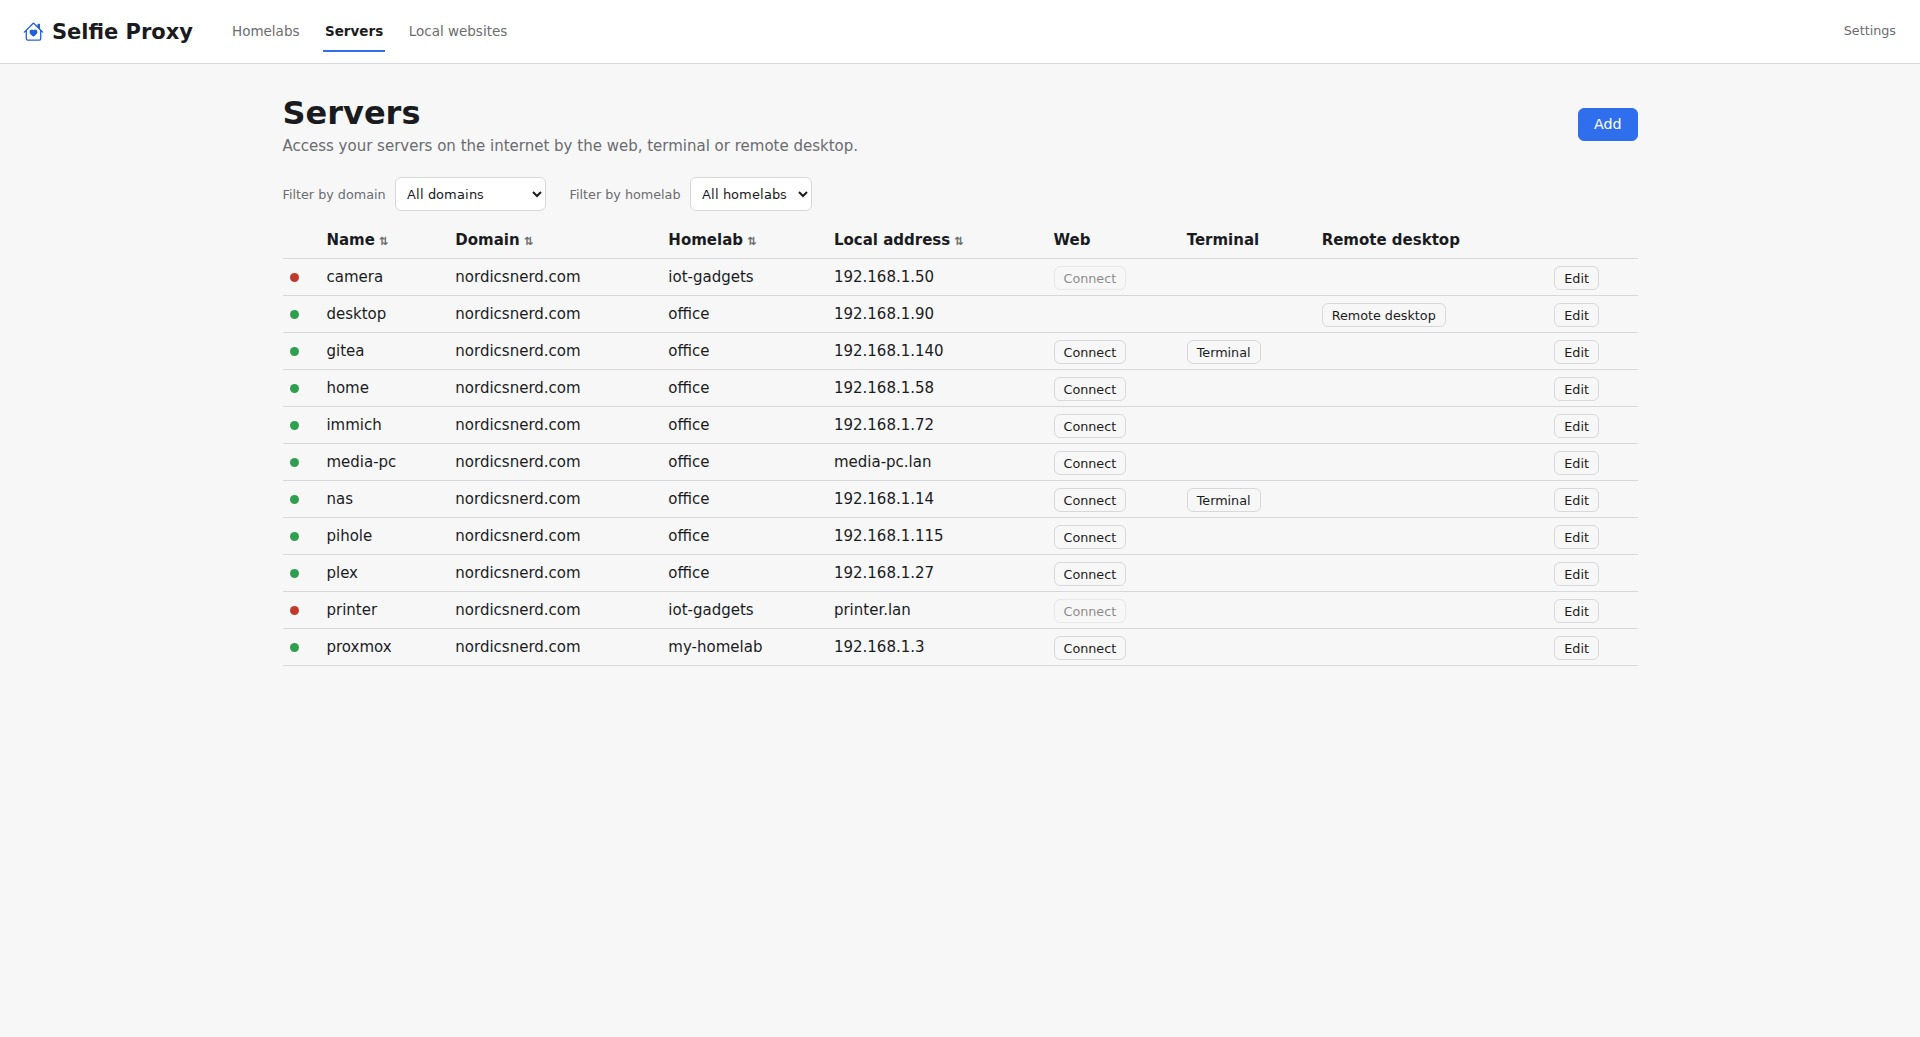
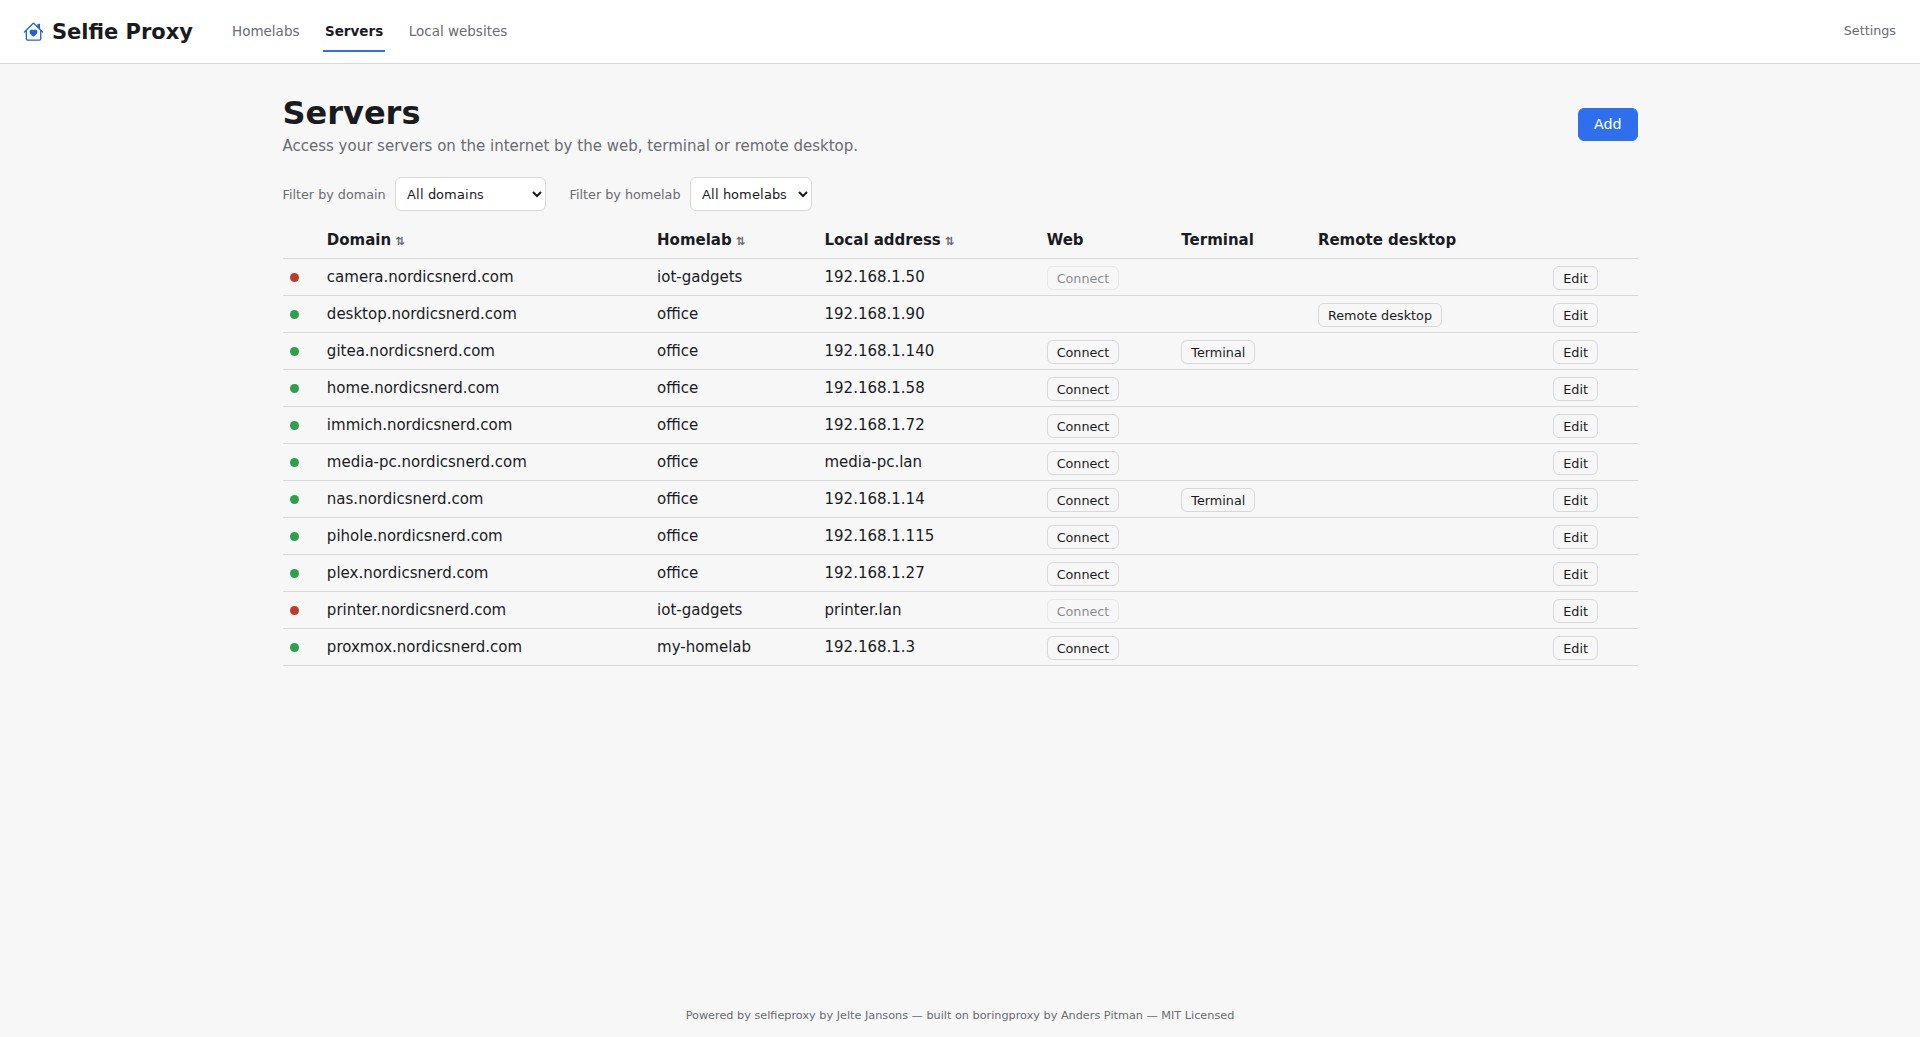
Refresh Servers-page hero screenshot for the merged Domain column
The homepage's static hero screenshot was taken before the separate
Name/Domain columns were merged into one FQDN Domain column -- retook
it against the current UI, and updated the alt text to match the
demo server's own current count (grown from 7 to 11 servers, 2 to 3
homelabs, since the last refresh).

diff --git a/selfieproxy-portal/src/main/resources/local-website-demo/index.html b/selfieproxy-portal/src/main/resources/local-website-demo/index.html
@@ -80,8 +80,8 @@
           <div class="browser-chrome"><span></span><span></span><span></span></div>
           <button type="button" class="shot-frame shot-trigger"
                   data-lightbox-src="screenshots/servers.jpg"
-                  data-lightbox-alt="Servers page listing seven servers across two homelabs, with Connect buttons for their Web, Terminal, and Remote desktop protocols.">
-            <img src="screenshots/servers.jpg" alt="Servers page listing seven servers across two homelabs, with Connect buttons for their Web, Terminal, and Remote desktop protocols." width="1920" height="1037" />
+                  data-lightbox-alt="Servers page listing eleven servers across three homelabs, each row showing its full domain name, with Connect buttons for their Web, Terminal, and Remote desktop protocols.">
+            <img src="screenshots/servers.jpg" alt="Servers page listing eleven servers across three homelabs, each row showing its full domain name, with Connect buttons for their Web, Terminal, and Remote desktop protocols." width="1920" height="1037" />
           </button>
         </div>
       </div>
